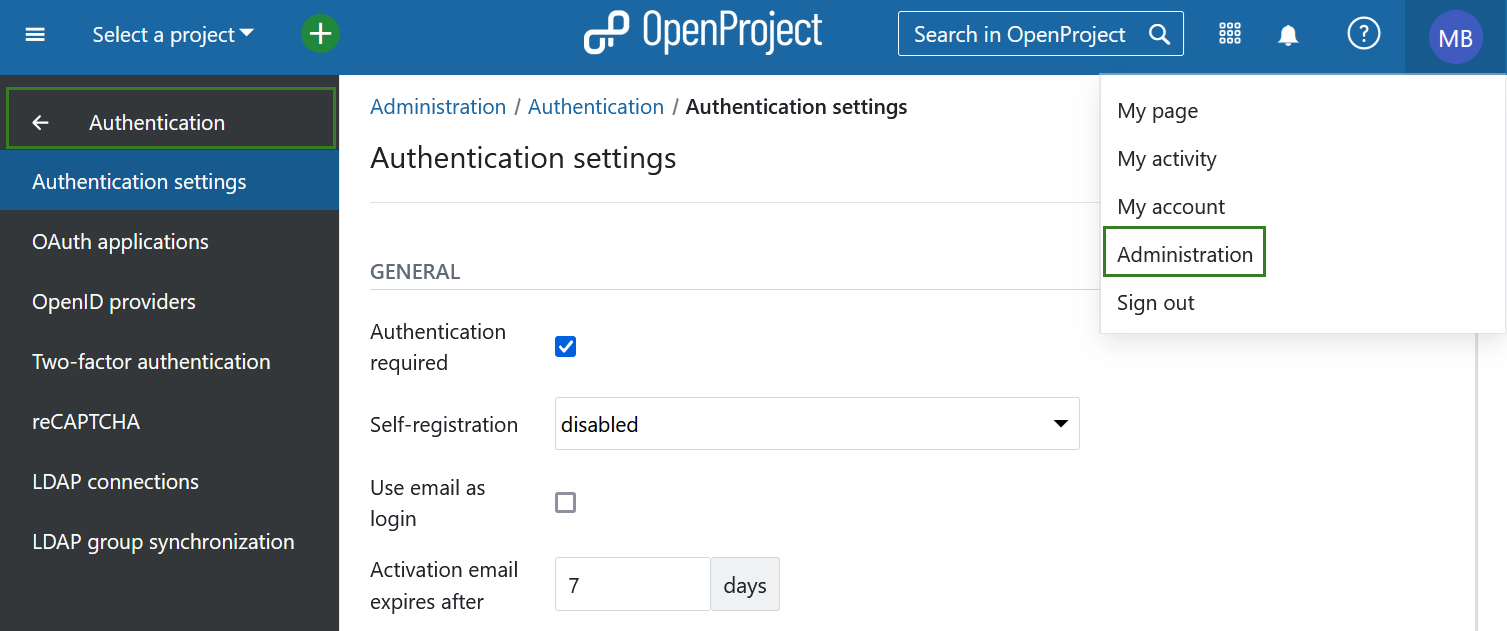
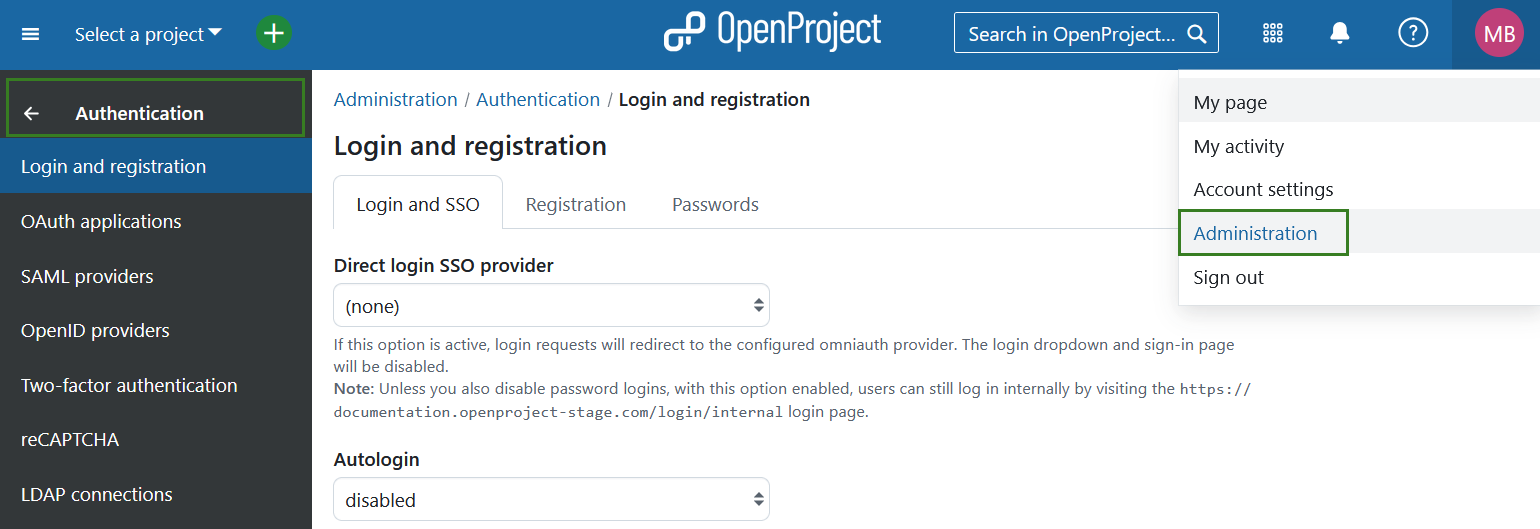
[#63796] Authentication settings administration changes  https://community.openproject.org/work_packages/63796
[#63796] Authentication settings administration changes

https://community.openproject.org/work_packages/63796

diff --git a/docs/system-admin-guide/authentication/login-registration-settings/README.md b/docs/system-admin-guide/authentication/login-registration-settings/README.md
@@ -1,0 +1,89 @@
+---
+sidebar_navigation:
+  title: Settings
+  priority: 990
+description: Login and registration settings in OpenProject.
+keywords: authentication settings, login settings, registration settings, OpenProject login, login, registration
+---
+# Login and registration
+
+To adapt general system **login and registration settings** in OpenProject, navigate to *Administration -> Authentication* and choose -> *Login and registration*.
+
+Here you can adapt various settings related to login and registration in OpenProject, grouped under three tabs: 
+
+- Login and SSO
+
+- Registration 
+
+- Passwords
+
+![Login and registration settings in OpenProject administration](openproject_system_admin_guide_authentication_settings_login_and_registration.png)
+
+## Login and SSO settings
+
+Under the *Login and SSO* tab you can adjust following settings: 
+
+1. Select a **direct login SSO provider**. If this option is active, login requests will be redirected to the configured Omniauth provider. This will disable the login dropdown and sign-in page. 
+
+   > [!NOTE]
+   >
+   > Unless you also disable password logins, with this option enabled, users can still log in internally by visiting internal login page, for example https://yourinstancename.openproject.com/login/internal login page.
+
+2. Enable or disable the **autologin option**. This allows a user to remain logged in, even if they leave the site. If this option is activated, the “Stay signed in” option will appear on the login screen to be selected.
+
+3. Activate the **session expiration option**. 
+
+4. Set the **duration for inactivity time**, after which a session will expire. Note that any value below 5 will be treated as disabling the session expiry setting.
+
+5. Define whether **user login, name, and mail address** should be logged for all requests.
+
+6. Define a path to **redirect users to after their first login**. If left empty, users are redirected to the homepage to see the onboarding tour.
+
+7. Set a **default path to redirect users to after login** (only if the login link is not a back link, i.e. www.example.openproject.com/login). If left empty, users are redirected to the homepage.
+
+   Do not forget to **save** your changes.
+
+![Login and SSO tab under login and registration settings in OpenProject system administration](openproject_system_admin_guide_authentication_settings_login_sso_tab.png)
+
+## Registration settings
+
+Under the *Registration* tab you can adjust following settings: 
+
+1. Select if the **authentication is required** to access OpenProject. For versions 13.1 and higher of OpenProject, this setting will be checked by default
+
+> [!IMPORTANT]
+> If you uncheck this box, your OpenProject instance will be visible to the general public without logging in. The visibility of individual projects depends on [this setting](../../../user-guide/projects/#set-a-project-to-public).
+
+2. Select an option for **self-registration**. Self-registration can either be **disabled**, or it can be allowed with the following criteria:
+
+   a) **Account activation by email** means the user receives an email and needs to confirm the activation.
+
+   b) **Manual account activation** means that a system administrator needs to manually activate the newly registered user.
+
+   c) **Automatic account activation** means that a newly registered user will automatically be active.
+
+> [!NOTE]
+> By default, self-registration is only applied to internal users (logging in with username and password). If you have an identity provider such as LDAP, SAML or OpenID Connect, use the respective settings in their configuration to control which users are applicable for automatic user creation.
+
+3. Define after how many days the **activation email sent to new users will expire**. Afterwards, you will have the possibility to [re-send the activation email](../../users-permissions/users/#resend-user-invitation-via-email) via the user settings.
+
+3. Choose for which **language** you want to define **the footer displayed at the bottom of the registration page** and formulate that footer text.
+
+
+![Registration tab under Login and Registration section of authentication settings in OpenProject administration](openproject_system_admin_guide_authentication_settings_registration_tab.png)
+
+## Password settings
+
+Under the *Password* tab you can adjust following settings: 
+
+1. Define the **minimum password length**.
+2. Select what **character classes are a mandatory part of the password**.
+3. Define the **minimum number of required character classes**.
+4. Define the number of days, after which a **password change should be enforced**. Value of 0 disables this option, i.e. no password change will be enforced.
+5. Define the **number of the most recently used passwords that a user should not be allowed to reuse**.
+6. Activate the **password reset** (Forgot your password option). This way users will be able to reset their own passwords via email.
+7. Define the number of failed **login attempts, after which a user will be temporarily blocked**. Value of 0 disables this option, i.e. users will not be blocked after any amount of failed login attempts.
+8. Define the **duration of the time, for which the user will be blocked after failed login attempts**. Value of 0 disables this option.
+
+![Password settings tab under Login and Registration section of authentication settings in OpenProject administration](openproject_system_admin_guide_authentication_settings_password_tab.png)
+

diff --git a/docs/system-admin-guide/authentication/README.md b/docs/system-admin-guide/authentication/README.md
@@ -13,12 +13,12 @@ Configure **authentication** settings and authentication providers in OpenProjec
 
 ## Overview
 
-| Topic                                                                        | Content                                                                               |
-|------------------------------------------------------------------------------|:--------------------------------------------------------------------------------------|
-| [Authentication settings](authentication-settings)                           | Configure general authentication settings, such as registration, passwords, and more. |
-| [OAuth applications](oauth-applications)                                     | How to configure OAuth applications in OpenProject.                                   |
-| [OpenID providers](openid-providers)                                         | How to configure OpenID providers in OpenProject.                                     |
-| [Two-factor authentication](two-factor-authentication)                       | Set up and manage two-factor authentication (2FA) in OpenProject.                     |
-| [reCAPTCHA](recaptcha)                                                       | How to activate reCAPTCHA in OpenProject.                                             |
-| [LDAP authentication](ldap-connections)                                      | How to set up LDAP authentication in OpenProject.                                     |
-| [LDAP group synchronization](ldap-connections/ldap-group-synchronization) | How to configure LDAP group synchronization in OpenProject. (Enterprise add-on)         |
+| Topic                                                        | Content                                                      |
+| ------------------------------------------------------------ | :----------------------------------------------------------- |
+| [Login and registration settings](login-registration-settings) | Configure general authentication settings, such as registration, SSO, passwords, and more. |
+| [OAuth applications](oauth-applications)                     | How to configure OAuth applications in OpenProject.          |
+| [OpenID providers](openid-providers)                         | How to configure OpenID providers in OpenProject.            |
+| [Two-factor authentication](two-factor-authentication)       | Set up and manage two-factor authentication (2FA) in OpenProject. |
+| [reCAPTCHA](recaptcha)                                       | How to activate reCAPTCHA in OpenProject.                    |
+| [LDAP authentication](ldap-connections)                      | How to set up LDAP authentication in OpenProject.            |
+| [LDAP group synchronization](ldap-connections/ldap-group-synchronization) | How to configure LDAP group synchronization in OpenProject. (Enterprise add-on) |
